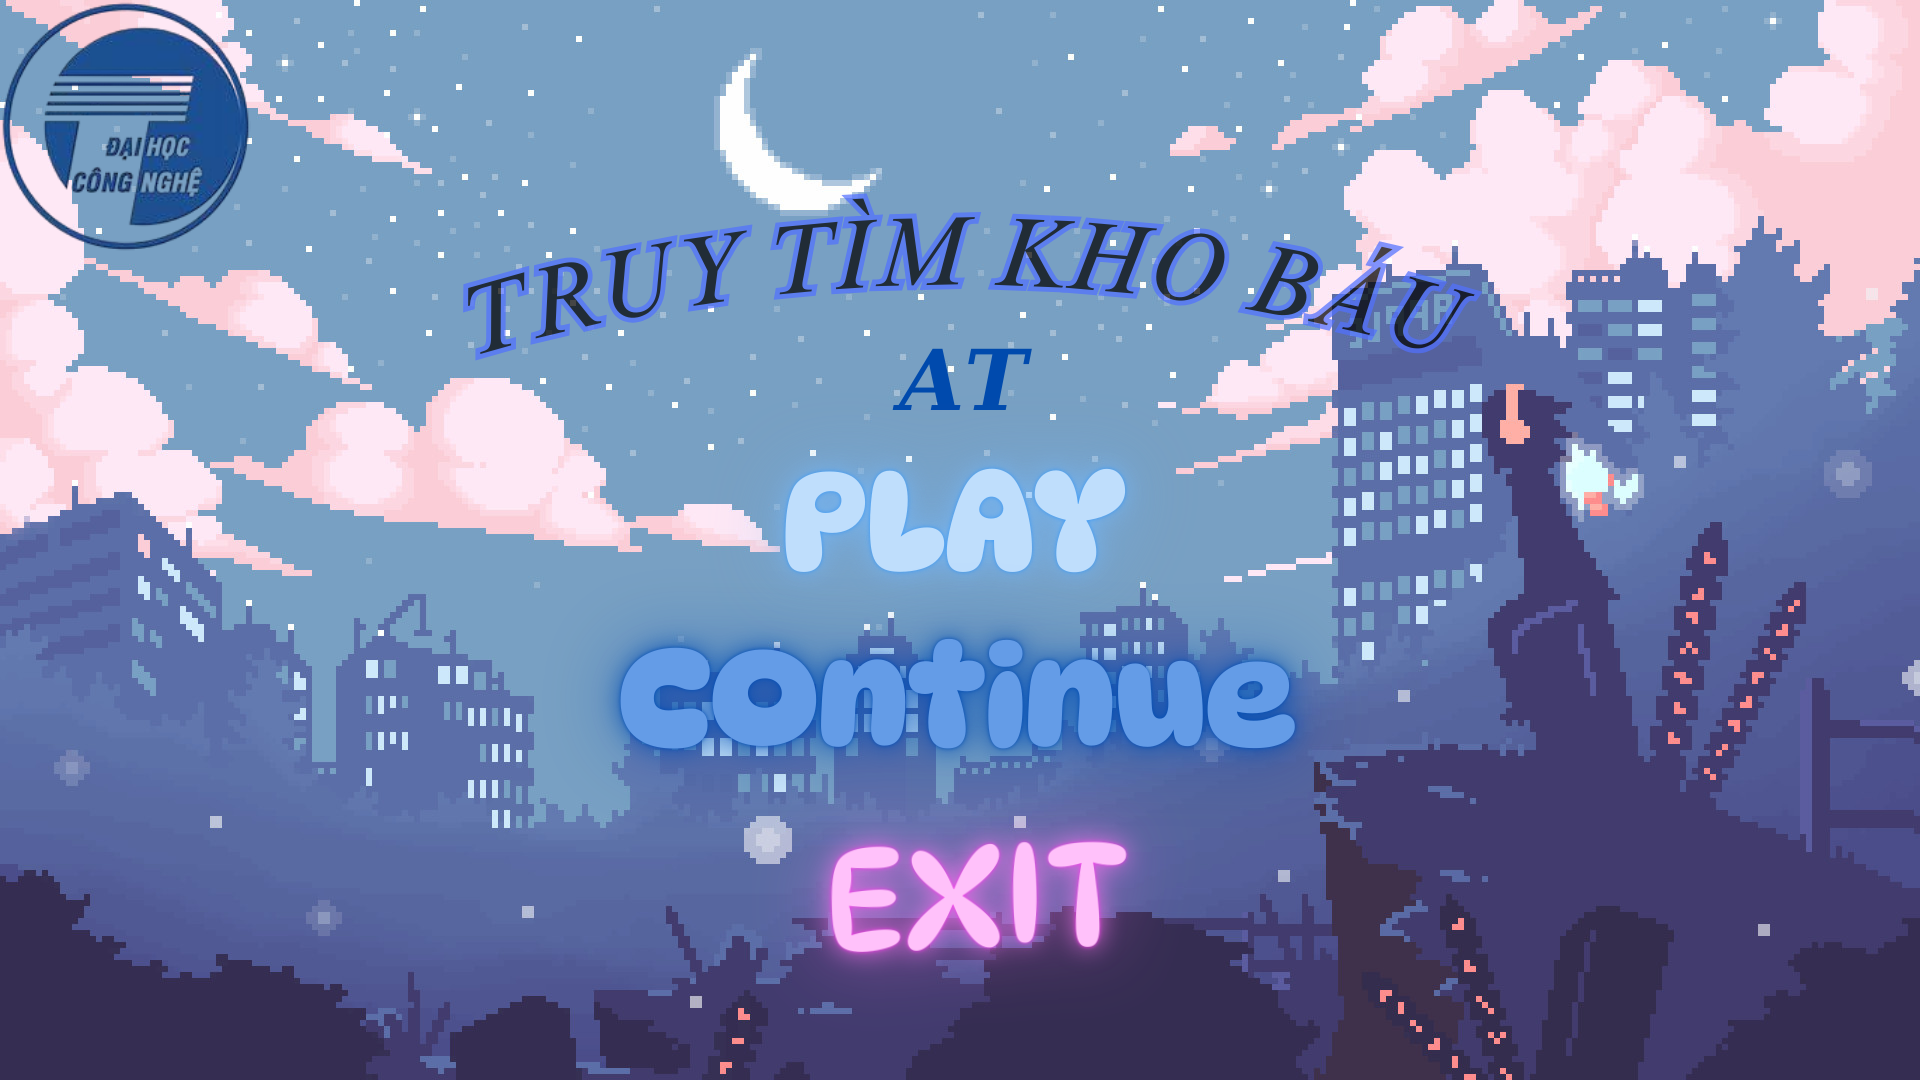
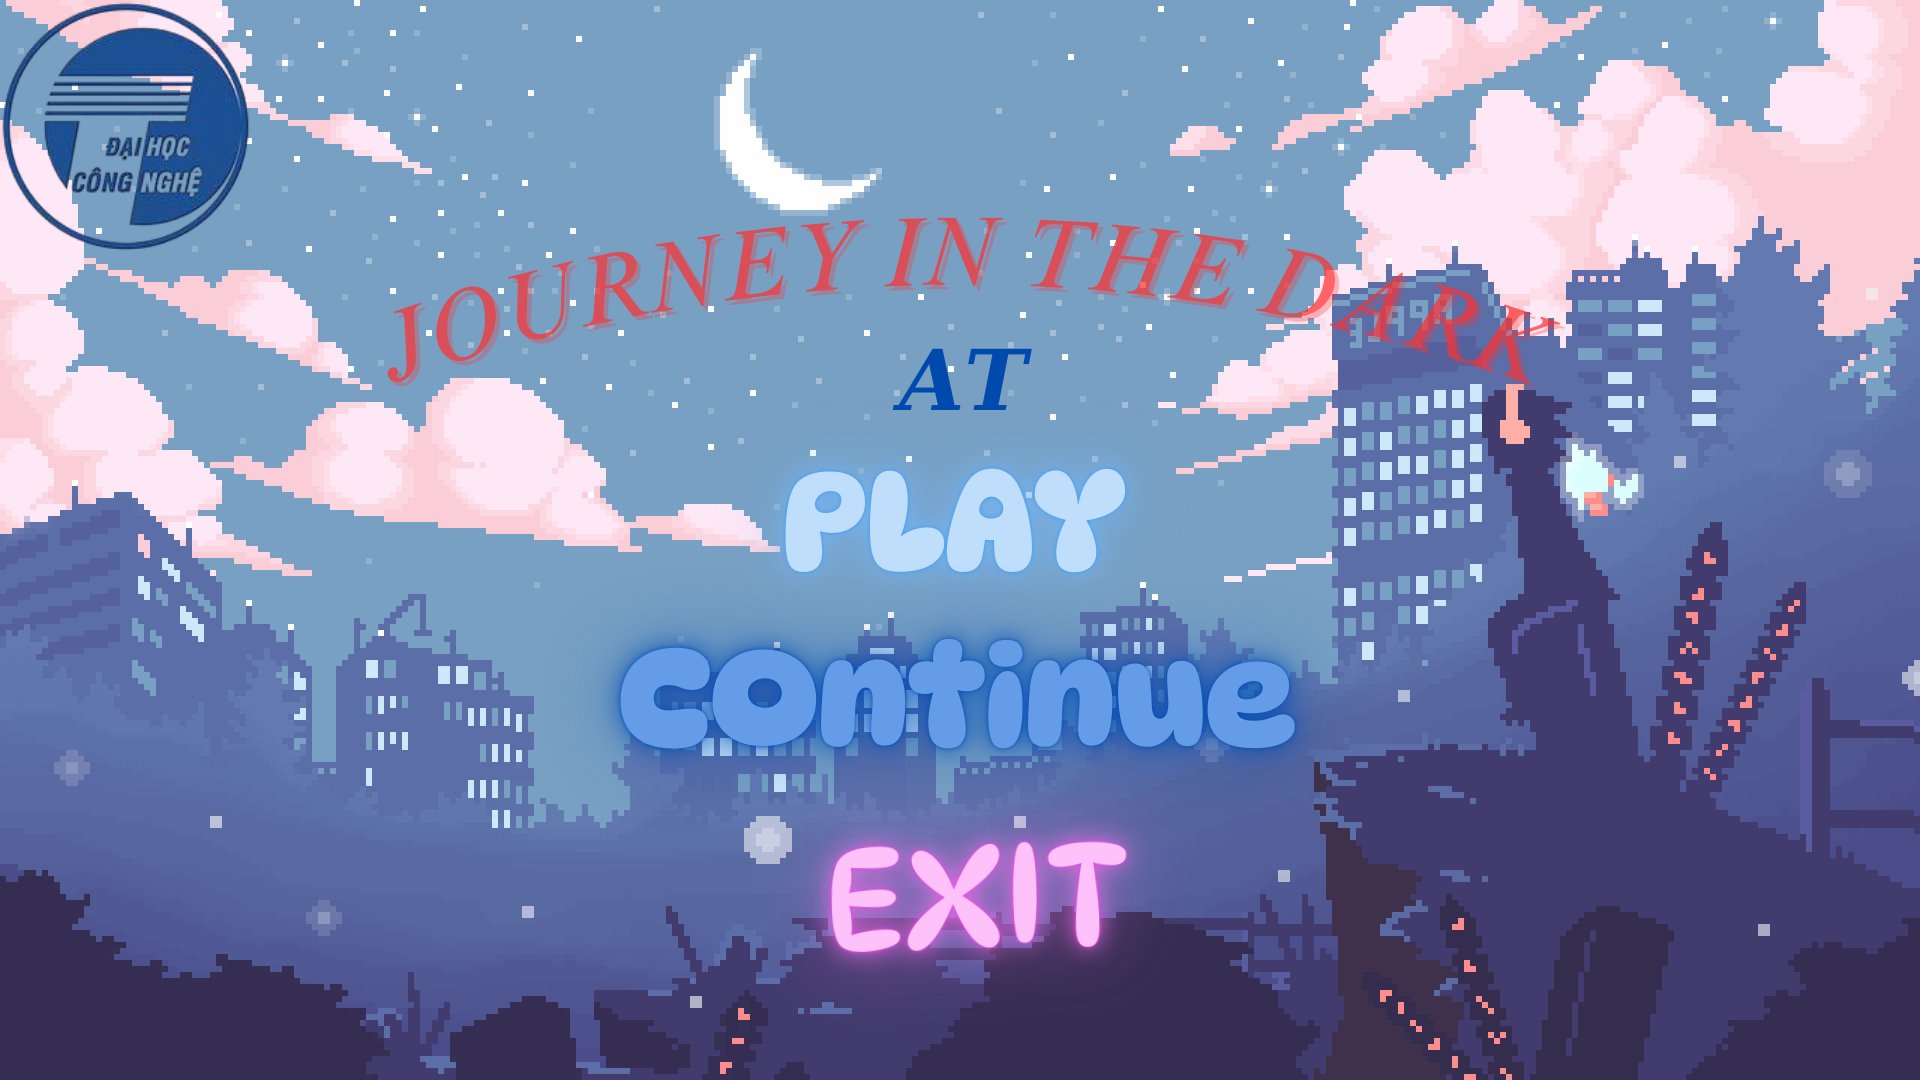
update va cham

Changed region(s): [[0.1875, 0.1833, 0.8125, 0.3667]]

diff --git a/src/main.cpp b/src/main.cpp
@@ -17,7 +17,7 @@ void init()
         cerr << "Lỗi khởi tạo SDL: " << SDL_GetError() << endl;
         exit(1);
     }
-    window = SDL_CreateWindow("TIM KHO BAU", SDL_WINDOWPOS_CENTERED, SDL_WINDOWPOS_CENTERED, SCREEN_WIDTH, SCREEN_HEIGHT, SDL_WINDOW_SHOWN);
+    window = SDL_CreateWindow("JOURNEY IN THE DARK", SDL_WINDOWPOS_CENTERED, SDL_WINDOWPOS_CENTERED, SCREEN_WIDTH, SCREEN_HEIGHT, SDL_WINDOW_SHOWN);
     if (!window)
     {
         cerr << "Lỗi tạo cửa sổ: " << SDL_GetError() << endl;
@@ -47,45 +47,48 @@ int main(int argc, char *argv[])
 {
     init();
     bool running = true;
-    bool showmap = false;
     SDL_Event event;
     Menu menu(renderer);
+    MenuState state = MENU;
     Map map(renderer, 22);
     Character character(renderer);
+
     while (running)
     {
         while (SDL_PollEvent(&event))
         {
-            if (event.type == SDL_QUIT || (event.type == SDL_KEYDOWN && event.key.keysym.sym == SDLK_ESCAPE))
-                running = false;
-
-            if (showmap)
+            if (event.type == SDL_QUIT || (event.type == SDL_KEYDOWN && event.key.keysym.sym == SDLK_ESCAPE) || state == EXIT)
             {
-                if (event.type == SDL_KEYDOWN && event.key.keysym.sym == SDLK_a)
+                running = false;
+            }
+
+            if (event.type == SDL_KEYDOWN && event.key.keysym.sym == SDLK_p)
+            {
+                state = MENU;
+                menu.playMusic();
+            }
+            if (state == PLAY || state == CONTINUE)
+            {
+                character.move(event, map);
+                if (map.isGameover())
                 {
-                    showmap = false;
+                    state = MENU;
                     menu.playMusic();
-                }
-                else
-                {
-                    character.move(event);
                 }
             }
             else
             {
-                MenuState state = menu.handleEvents(event);
-                if (state == EXIT)
-                    running = false;
-                else if (state == PLAY)
+                state = menu.handleEvents(event);
+                if ((state == PLAY || (state == CONTINUE && map.isGameover())) && map.LoadMap("map.txt"))
                 {
-                    if (map.LoadMap("map.txt"))
-                        showmap = true;
+                    state = PLAY;
+                    map.setGameover(false);
+                    character.resetPosition();
                 }
             }
         }
-
         SDL_RenderClear(renderer);
-        if (showmap)
+        if ((state == PLAY) || (state == CONTINUE && !map.isGameover()))
         {
             map.render();
             character.render();
@@ -97,6 +100,7 @@ int main(int argc, char *argv[])
         SDL_RenderPresent(renderer);
         SDL_Delay(16);
     }
+
     cleanup();
     return 0;
 }

diff --git a/src/Map.cpp b/src/Map.cpp
@@ -4,7 +4,7 @@
 #include <SDL2/SDL.h>
 #include <SDL2/SDL_image.h>
 using namespace std;
-Map::Map(SDL_Renderer *renderer, int tileSize) : renderer(renderer), tileSize(tileSize)
+Map::Map(SDL_Renderer *renderer, int tileSize) : renderer(renderer), tileSize(tileSize), Gameover(true)
 {
     IMG_Init(IMG_INIT_PNG);
     types.resize(3, nullptr);
@@ -35,26 +35,9 @@ Map::~Map()
     IMG_Quit();
 }
 
-void Map::render()
-{
-    int rows = tileMap.size();
-    int cols = tileMap[0].size();
-
-    for (int i = 0; i < rows; i++)
-    {
-        for (int j = 0; j < cols; j++)
-        {
-            int tileType = tileMap[i][j];
-            if (tileType < 0 || tileType >= types.size() || !types[tileType])
-                continue;
-            SDL_Rect dstRect = {tileSize * j, tileSize * i, tileSize, tileSize};
-            SDL_RenderCopy(renderer, types[tileType], NULL, &dstRect);
-        }
-    }
-}
-
 bool Map::LoadMap(const string &file)
 {
+    Gameover = false;
     ifstream File(file);
     if (!File.is_open())
     {
@@ -75,10 +58,66 @@ bool Map::LoadMap(const string &file)
                 row.push_back(WALL);
             else if (c == '2')
                 row.push_back(TREASURE);
-            else continue;
+            else
+                continue;
         }
         tileMap.push_back(row);
     }
     File.close();
     return !tileMap.empty();
+}
+bool Map::isGameover() const
+{
+    return Gameover;
+}
+
+int Map::getTile(int x, int y, int width, int height)
+{
+    int leftCol = x / tileSize;
+    int rightCol = (x + width - 1) / tileSize;
+    int topRow = y / tileSize;
+    int bottomRow = (y + height - 1) / tileSize;
+    for (int row = topRow; row <= bottomRow; row++)
+    {
+        for (int col = leftCol; col <= rightCol; col++)
+        {
+            if (tileMap[row][col] == WALL)
+                return 1;
+            if (tileMap[row][col] == TREASURE)
+            {
+                Gameover = true;
+                return 2;
+            }
+        }
+    }
+    return 0;
+}
+
+void Map::render()
+{
+    if (Gameover)
+    {
+        return;
+    }
+    else
+    {
+        int rows = tileMap.size();
+        int cols = tileMap[0].size();
+
+        for (int i = 0; i < rows; i++)
+        {
+            for (int j = 0; j < cols; j++)
+            {
+                int tileType = tileMap[i][j];
+                if (tileType < 0 || tileType >= types.size() || !types[tileType])
+                    continue;
+                SDL_Rect dstRect = {tileSize * j, tileSize * i, tileSize, tileSize};
+                SDL_RenderCopy(renderer, types[tileType], NULL, &dstRect);
+            }
+        }
+    }
+}
+void Map::setGameover(bool value)
+{
+    Gameover = value;
 }

diff --git a/src/Character.cpp b/src/Character.cpp
@@ -1,9 +1,9 @@
 #include "Character.h"
 #include <SDL2/SDL.h>
-Character::Character(SDL_Renderer *renderer) : renderer(renderer), x(0), y(0), width(22), height(22) {}
+#include "Map.h"
+Character::Character(SDL_Renderer *renderer) : renderer(renderer), x(37 * 22), y(22 * 22), width(22), height(22) {}
 Character::~Character()
 {
-    SDL_Quit();
 }
 void Character::render()
 {
@@ -11,32 +11,42 @@ void Character::render()
     SDL_SetRenderDrawColor(renderer, 255, 0, 0, 255);
     SDL_RenderFillRect(renderer, &rect);
 }
-void Character::move(const SDL_Event &event)
+
+void Character::move(const SDL_Event &event, Map &map)
 {
+    int newX = x, newY = y;
+
     if (event.type == SDL_KEYDOWN)
     {
         switch (event.key.keysym.sym)
         {
         case SDLK_UP:
-            y -= 5;
+            newY -= 11;
             break;
         case SDLK_DOWN:
-            y += 5;
+            newY += 11;
             break;
         case SDLK_LEFT:
-            x -= 5;
+            newX -= 11;
             break;
         case SDLK_RIGHT:
-            x += 5;
+            newX += 11;
             break;
         }
     }
-    if(x < 0)
-        x = 0;
-    if(y < 0)
-        y = 0;
-    if(x + width > 1920)
-        x = 1920 - width;
-    if(y + height > 1080)
-        y = 1080 - height;
+    int tileType = map.getTile(newX, newY, width, height);
+    if (tileType == 0)
+    {
+        x = newX;
+        y = newY;
+    }
+    else if (tileType == 2)
+    {
+        SDL_Delay(500);
+    }
+}
+void Character::resetPosition()
+{
+    x = 37 * 22;
+    y = 22 * 22;
 }

diff --git a/src/Map.h b/src/Map.h
@@ -18,13 +18,16 @@ private:
     int tileSize;
     vector<SDL_Texture *> types;
     vector<vector<int>> tileMap;
+    bool Gameover;
 
 public:
     Map(SDL_Renderer *renderer, int tileSize);
     ~Map();
     bool LoadMap(const string &file);
-
     void render();
+    int getTile(int x, int y, int width, int height);
+    bool isGameover() const;
+    void setGameover(bool value);
 };
 
 #endif

diff --git a/src/Character.h b/src/Character.h
@@ -2,7 +2,8 @@
 #define CHARACTER_H
 #include <SDL2/SDL.h>
 #include <SDL2/SDL_image.h>
-
+#include "Map.h"
+#include "Menu.h"
 class Character
 {
 private:
@@ -13,6 +14,7 @@ public:
     Character(SDL_Renderer *renderer);
     ~Character();
     void render();
-    void move(const SDL_Event &event);
+    void move(const SDL_Event &event, Map &map);
+    void resetPosition();
 };
 #endif

diff --git a/src/Menu.cpp b/src/Menu.cpp
@@ -57,6 +57,7 @@ Menu::~Menu()
         Mix_FreeChunk(buttonSound);
 
     Mix_CloseAudio();
+    Mix_Quit();
 }
 
 void Menu::render()
@@ -99,7 +100,7 @@ MenuState Menu::handleEvents(SDL_Event &event)
             return EXIT;
         }
     }
-    return NONE;
+    return MENU;
 }
 
 void Menu::playMusic()

diff --git a/src/Menu.h b/src/Menu.h
@@ -7,7 +7,7 @@ enum MenuState
     PLAY,
     CONTINUE,
     EXIT,
-    NONE
+    MENU
 };
 class Menu
 {
